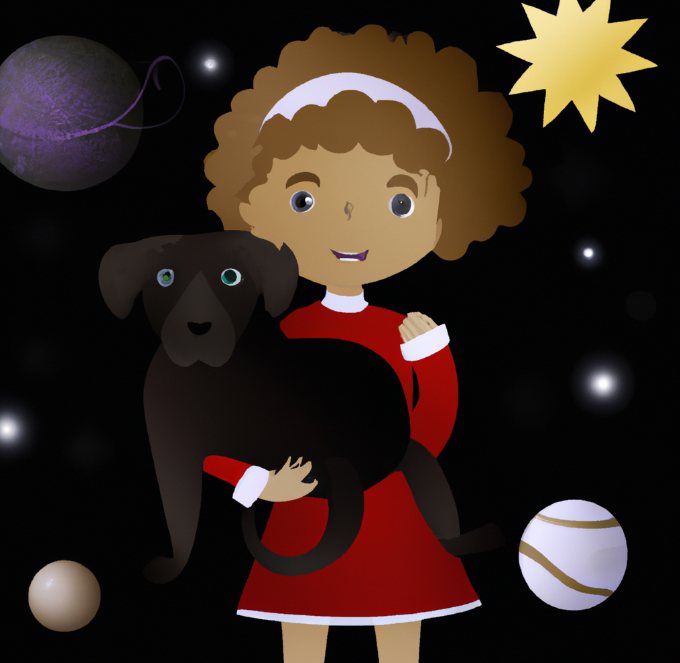
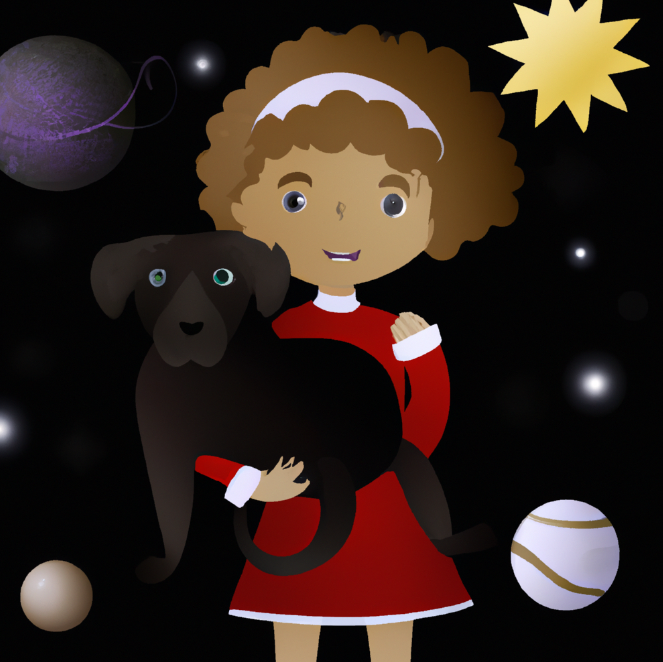
Fixed images from step 2 - mobile friendly modal

diff --git a/client/src/components/Modals/Step2Modal/index.js b/client/src/components/Modals/Step2Modal/index.js
@@ -41,20 +41,18 @@ const Image2Modal = (props) => {
           borderRadius: 4,
           p: 2,
           m: 1,
+          mr:2,
           display: "flex",
           alignItems: "center",
           justifyContent: "center",
           maxHeight: "80vh",
+          width:{xs:"40vh", sm:"80vh"},
           overflow: "auto",
         }}
       >
         <Stack
           sx={{
-            mt: {
-              xs: "300px",
-              sm: "20px",
-              md: "10px",
-            },
+            mt: "10px"
           }}
         >
           <IconButton

diff --git a/client/src/components/Modals/Step1Modal/index.js b/client/src/components/Modals/Step1Modal/index.js
@@ -46,6 +46,7 @@ const ImageModal = (props) => {
           alignItems: "center",
           justifyContent: "center",
           maxHeight: "80vh",
+          width:{xs:"40vh", sm:"80vh"},
           overflow: "auto",
         }}
       >
